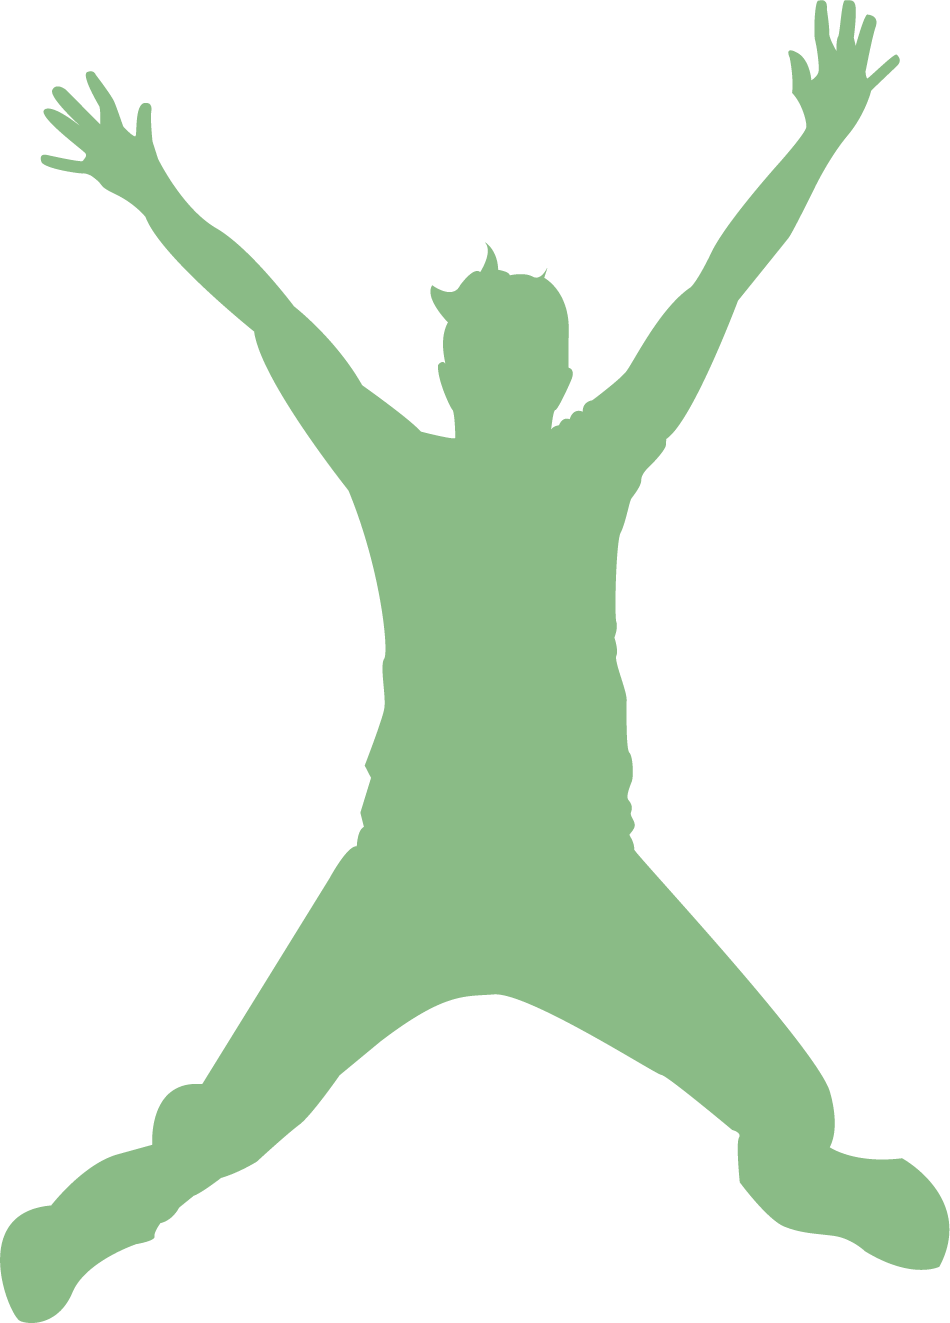
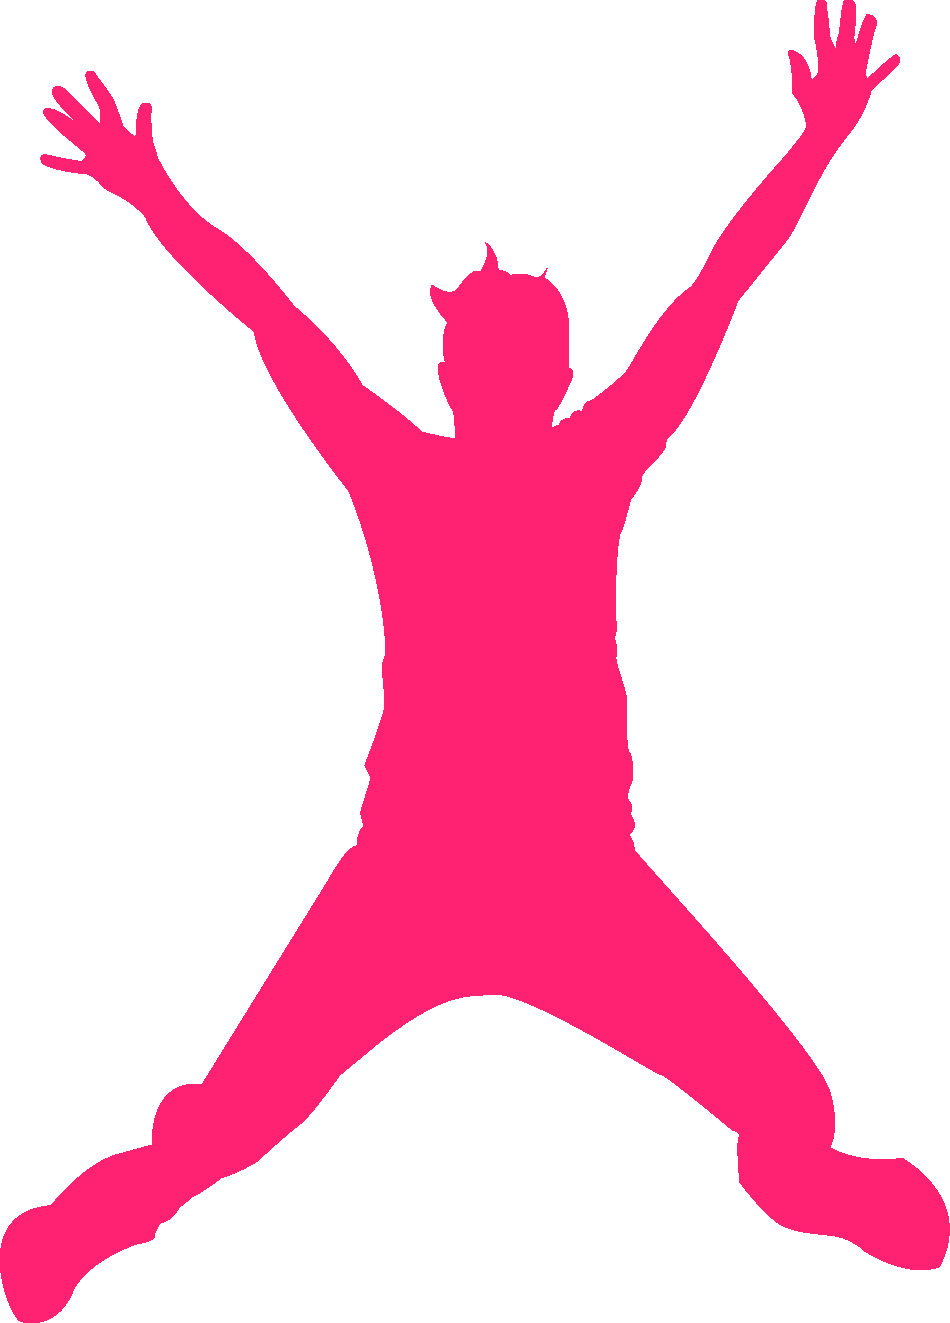
congif filles

Changed region(s): [[0.0, 0.0, 1.0, 1.0]]

diff --git a/tailwind.config.js b/tailwind.config.js
@@ -1,4 +1,5 @@
 /** @type {import('tailwindcss').Config} */
+import config from './config/config';
 module.exports = {
   content: [
     "./src/pages/**/*.{js,ts,jsx,tsx,mdx}",
@@ -7,17 +8,44 @@ module.exports = {
   ],
   theme: {
     extend: {
+      keyframes: {
+        'bounceLow': {
+          ' 0%, 100%': {
+            transform: 'translateY(0%)',
+            animationTimingFunction: 'cubic-bezier(0.8,0,1,1)',
+          },
+          '50%': {
+            transform: 'translateY(40px)',
+            animationTimingFunction: 'cubic-bezier(0,0,0.2,1)',
+          }
+        },
+        'transport': {
+          "0%": {
+            transform: "translateX(-200%)",
+            opacity: "0"
+          },
+          "50%": {
+            transform: "translateX(0) translateY(-50px) rotate(90deg)",
+            opacity: "1"
+          },
+          "100%": {
+            transform: "translateX(200%)  translateY(0px) rotate(180deg)",
+            opacity: "0"
+          }
+        },
+      },
+      animation: {
+        'make-a-trip': 'transport 2s linear infinite',
+        'bounce-slow': 'bounceLow 1s linear infinite',
+        'spin-slow': 'spin 2s linear infinite',
+      },
       backgroundImage: {
         "gradient-radial": "radial-gradient(var(--tw-gradient-stops))",
         "gradient-conic":
           "conic-gradient(from 180deg at 50% 50%, var(--tw-gradient-stops))",
       },
-      colors: {
-        custTurq: "#25b4b1",
-        custHotpink: "#ff69b4",
-        custYellow: "#ffff00",
-        custBackground: "rgb(12 19 19)"
-      }
+      colors: config.colors,
+      fontFamily: config.fontFamily
     },
   },
   plugins: [],

diff --git a/src/app/globals.css b/src/app/globals.css
@@ -2,6 +2,8 @@
 @tailwind components;
 @tailwind utilities;
 
+@import url('https://fonts.googleapis.com/css2?family=DM+Sans:ital,opsz,wght@0,9..40,100..1000;1,9..40,100..1000&family=Montserrat:ital,wght@0,100..900;1,100..900&family=Roboto:ital,wght@0,100;0,300;0,400;0,500;0,700;0,900;1,100;1,300;1,400;1,500;1,700;1,900&display=swap');
+
 :root {
   --foreground-rgb: 0, 0, 0;
   --background-start-rgb: 214, 219, 220;
@@ -11,23 +13,32 @@
 @media (prefers-color-scheme: dark) {
   :root {
     --foreground-rgb: 255, 255, 255;
-    --background-start-rgb: 0, 0, 0;
-    --background-end-rgb: 0, 0, 0;
+    --background-start-rgb: 33, 46, 47;
+    --background-end-rgb: 33, 46, 47;
   }
 }
 
 body {
   color: rgb(var(--foreground-rgb));
-  background: linear-gradient(
-      to bottom,
-      transparent,
-      rgb(var(--background-end-rgb))
-    )
-    rgb(var(--background-start-rgb));
+    display: flex;
+    flex-direction: column;
+  align-items: center;
 }
 
 @layer utilities {
   .text-balance {
     text-wrap: balance;
+  }
+}
+
+@layer base {
+  h1 {
+    @apply text-4xl
+  }
+}
+
+@layer components {
+  .roundedBtn {
+    @apply px-6 py-2 rounded-2xl
   }
 }

diff --git a/config/fonts/dmSans.js b/config/fonts/dmSans.js
@@ -1,0 +1,13 @@
+module.exports = {
+    'DM Sans': ['DM Sans', 'sans-serif'],
+    'DM SansItalic': ['DM Sans', 'sans-serif', 'italic'],
+    'DM SansThin': ['DM Sans', 'sans-serif', 100],
+    'DM SansExtraLight': ['DM Sans', 'sans-serif', 200],
+    'DM SansLight': ['DM Sans', 'sans-serif', 300],
+    'DM SansRegular': ['DM Sans', 'sans-serif', 400],
+    'DM SansMedium': ['DM Sans', 'sans-serif', 500],
+    'DM SansSemiBold': ['DM Sans', 'sans-serif', 600],
+    'DM SansBold': ['DM Sans', 'sans-serif', 700],
+    'DM SansExtraBold': ['DM Sans', 'sans-serif', 800],
+    'DM SansBlack': ['DM Sans', 'sans-serif', 900],
+}

diff --git a/config/fonts/montserrat.js b/config/fonts/montserrat.js
@@ -1,0 +1,12 @@
+module.exports = {
+    Montserrat: ['Montserrat', 'sans-serif'],
+    MontserratThin: ['Montserrat', 'sans-serif', 100],
+    MontserratExtraLight: ['Montserrat', 'sans-serif', 200],
+    MontserratLight: ['Montserrat', 'sans-serif', 300],
+    MontserratRegular: ['Montserrat', 'sans-serif', 400],
+    MontserratMedium: ['Montserrat', 'sans-serif', 500],
+    MontserratSemiBold: ['Montserrat', 'sans-serif', 600],
+    MontserratBold: ['Montserrat', 'sans-serif', 700],
+    MontserratExtraBold: ['Montserrat', 'sans-serif', 800],
+    MontserratBlack: ['Montserrat', 'sans-serif', 900]
+};

diff --git a/config/fonts/roboto.js b/config/fonts/roboto.js
@@ -1,0 +1,9 @@
+module.exports = {
+    Roboto: ['Roboto', 'sans-serif'],
+    RobotoThin: ['Roboto', 'sans-serif', 100],
+    RobotoLight: ['Roboto', 'sans-serif', 300],
+    RobotoRegular: ['Roboto', 'sans-serif', 400],
+    RobotoMedium: ['Roboto', 'sans-serif', 500],
+    RobotoBold: ['Roboto', 'sans-serif', 700],
+    RobotoBlack: ['Roboto', 'sans-serif', 900],
+};

diff --git a/config/config.js b/config/config.js
@@ -1,0 +1,16 @@
+import montserrat from "./fonts/montserrat";
+import dmSans from "./fonts/dmSans";
+import roboto from "./fonts/roboto";
+import colors from "./colors/colors"
+
+const config = {}
+
+config.fontFamily = {
+    header: montserrat,
+    roboto: roboto,
+    'dm-sans': dmSans,
+};
+
+config.colors = colors;
+
+export default config;

diff --git a/config/colors/colors.js b/config/colors/colors.js
@@ -1,0 +1,11 @@
+module.exports = {
+    custTurq: "#25b4b1",
+    custHotpink: "#ff2273",
+    custYellow: "#ffff00",
+    custOrange: "#FFB347",
+    custBackground: "rgb(10, 10, 10)",
+    custBackgroundDarkLight: "rgb(33, 46, 47)"
+}
+
+
+// custHotpink: "#ff69b4"
